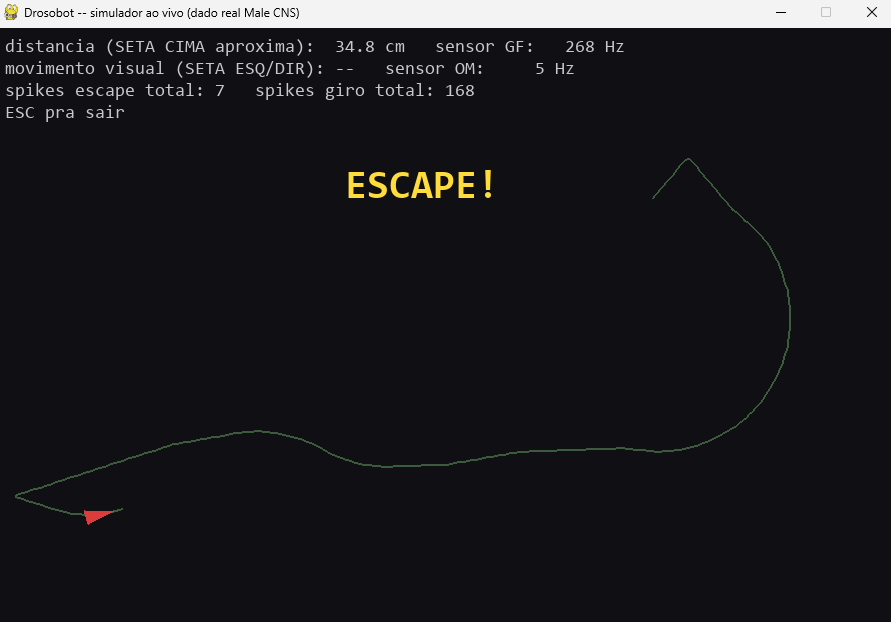
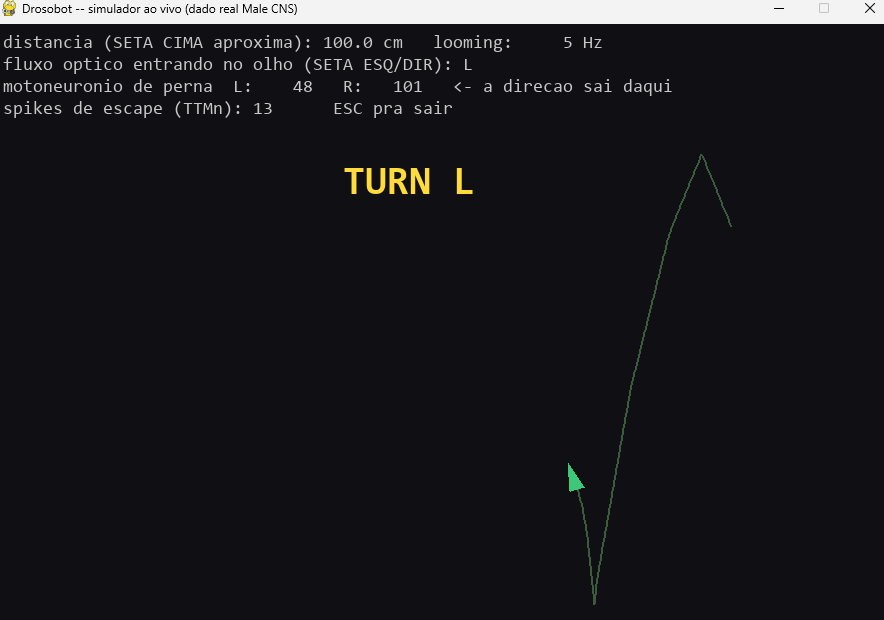
docs: capturas do simulador com o modelo novo + contadores por episodio
As tres capturas agora sao do modelo atual. A do giro pra direita mostra no HUD
L: 0 R: 51 -- o motoneuronio contralateral em zero absoluto, que e a evidencia
ao vivo de que a direcao sai do circuito e nao da tecla.

Contadores do HUD passaram a ser por episodio. Acumulados enganavam: depois de um
giro pra direita, um giro pra esquerda aparecia como "L 48 R 101", com o lado
errado maior so por causa do episodio anterior.

Documentado tambem que virar pra esquerda exige mais estimulo que pra direita --
vies de reconstrucao do Male CNS (lado direito mais forte em toda etapa) virando
comportamento, nao bug. O lado escolhido esta certo; a facilidade de cada lado
carrega o vies do dataset.

diff --git a/sim/live_robot_sim.py b/sim/live_robot_sim.py
@@ -165,6 +165,11 @@ while running:
                           for s in om_sensor_side] * Hz
     else:
         OM_Sensor.rate = OM_FRACO_HZ * Hz
+        # contadores do HUD sao POR EPISODIO, nao acumulados da sessao: soltando
+        # a tecla eles zeram. Acumulado engana -- depois de um giro pra direita,
+        # um giro pra esquerda aparecia como "L 48 R 101", com o lado errado
+        # maior so por causa do episodio anterior.
+        turns_L, turns_R = 0, 0
 
     STEP_MS = 5
     net.run(STEP_MS * ms)
@@ -221,7 +226,7 @@ while running:
     hud_lines = [
         f"distancia (SETA CIMA aproxima): {distance_cm:5.1f} cm   looming: {gf_rate_hz:5.0f} Hz",
         f"fluxo optico entrando no olho (SETA ESQ/DIR): {olho or '--'}",
-        f"motoneuronio de perna  L: {turns_L:5d}   R: {turns_R:5d}   <- a direcao sai daqui",
+        f"motoneuronio de perna (episodio)  L: {turns_L:4d}   R: {turns_R:4d}   <- a direcao sai daqui",
         f"spikes de escape (TTMn): {seen_escape}      ESC pra sair",
     ]
     for i, line in enumerate(hud_lines):

diff --git a/README.md b/README.md
@@ -174,19 +174,38 @@ real: escape sempre interrompe um giro em andamento.
 A seta cima aproxima o objeto (looming). As setas esquerda/direita escolhem **em
 qual olho** entra o fluxo optico — nao a direcao do giro. Quem decide o lado e o
 motoneuronio de perna que disparou, e o HUD mostra a contagem dos dois lados
-justamente pra isso ficar visivel.
+justamente pra isso ficar auditavel na tela.
 
 Antes o pool optomotor era unico e o desenho girava pro lado da tecla: o dado
 dizia **se e quando** girar, a direcao era fiat do codigo. Agora sai do circuito.
 
-> **Nota:** as duas capturas abaixo sao anteriores a essa mudanca (pool unico,
-> direcao pela tecla, LIF sem unidade). O comportamento qualitativo — giro em
-> degraus, escape interrompendo — continua valendo, mas os numeros nao batem mais
-> com o modelo atual. Ficam aqui ate serem retiradas de novo.
+Fluxo optico entrando no olho direito. Repare no HUD: `L: 0   R: 51` — o
+motoneuronio esquerdo fica em zero absoluto enquanto o direito dispara.
 
 ![Giro ao vivo](docs/images/live_sim_turn_loop.png)
 
-![Escape e giro combinados](docs/images/live_sim_combined.png)
+Depois, fluxo no olho esquerdo. A trilha guarda o giro anterior pra direita, e o
+robo agora curva pro outro lado:
+
+![Os dois sentidos](docs/images/live_sim_combined.png)
+
+Escape disparando ao vivo (objeto a 5,4 cm, robo em vermelho durante a janela de
+lockout que bloqueia giro):
+
+![Escape ao vivo](docs/images/live_sim_escape.png)
+
+### A esquerda e mais dificil, e isso e o dataset
+
+Usando o simulador fica obvio na mao: virar pra esquerda exige mais estimulo que
+virar pra direita. Nao e bug do codigo — e o vies de reconstrucao do Male CNS
+aparecendo no comportamento. O lado direito e mais forte em toda etapa do
+circuito (T4/T5 721 contra 637, DNa02→motor 442 contra 334), e como o
+motoneuronio tem limiar, ~10% de diferenca de peso vira varias vezes de diferenca
+na resposta (48 spikes contra 8 na medida offline).
+
+O LADO que o circuito escolhe esta certo e sem vazamento. A FACILIDADE de cada
+lado carrega o vies do dataset. Vale lembrar disso antes de tratar qualquer
+assimetria de comportamento como se fosse biologia.
 
 Ajuste de ganho documentado (nao escondido): a primeira versao usava 6°/spike +
 limite de 1 giro a cada 60ms — o robo fechava um loop completo em menos de 1
@@ -353,7 +372,6 @@ COM real — a extensão VS Code do Wokwi não expõe porta COM do host, só ter
 - [x] Dois hemisferios separados no optomotor: a direcao do giro sai do circuito
 - [ ] Refratario especifico do Giant Fiber (o generico de 2,2 ms nao captura o
       comportamento de tiro unico documentado)
-- [ ] Retirar as capturas do simulador ao vivo com o modelo novo
 - [ ] Comprar kit físico (favorito atual: Kuyshun ESP32-CAM 328P — tem HC-SR04 +
       arquitetura dual-MCU ESP32-CAM/ATmega328P já pronta, resolve o aperto de GPIO)
 - [ ] Portar firmware simulado pro hardware real, validar ponta a ponta
